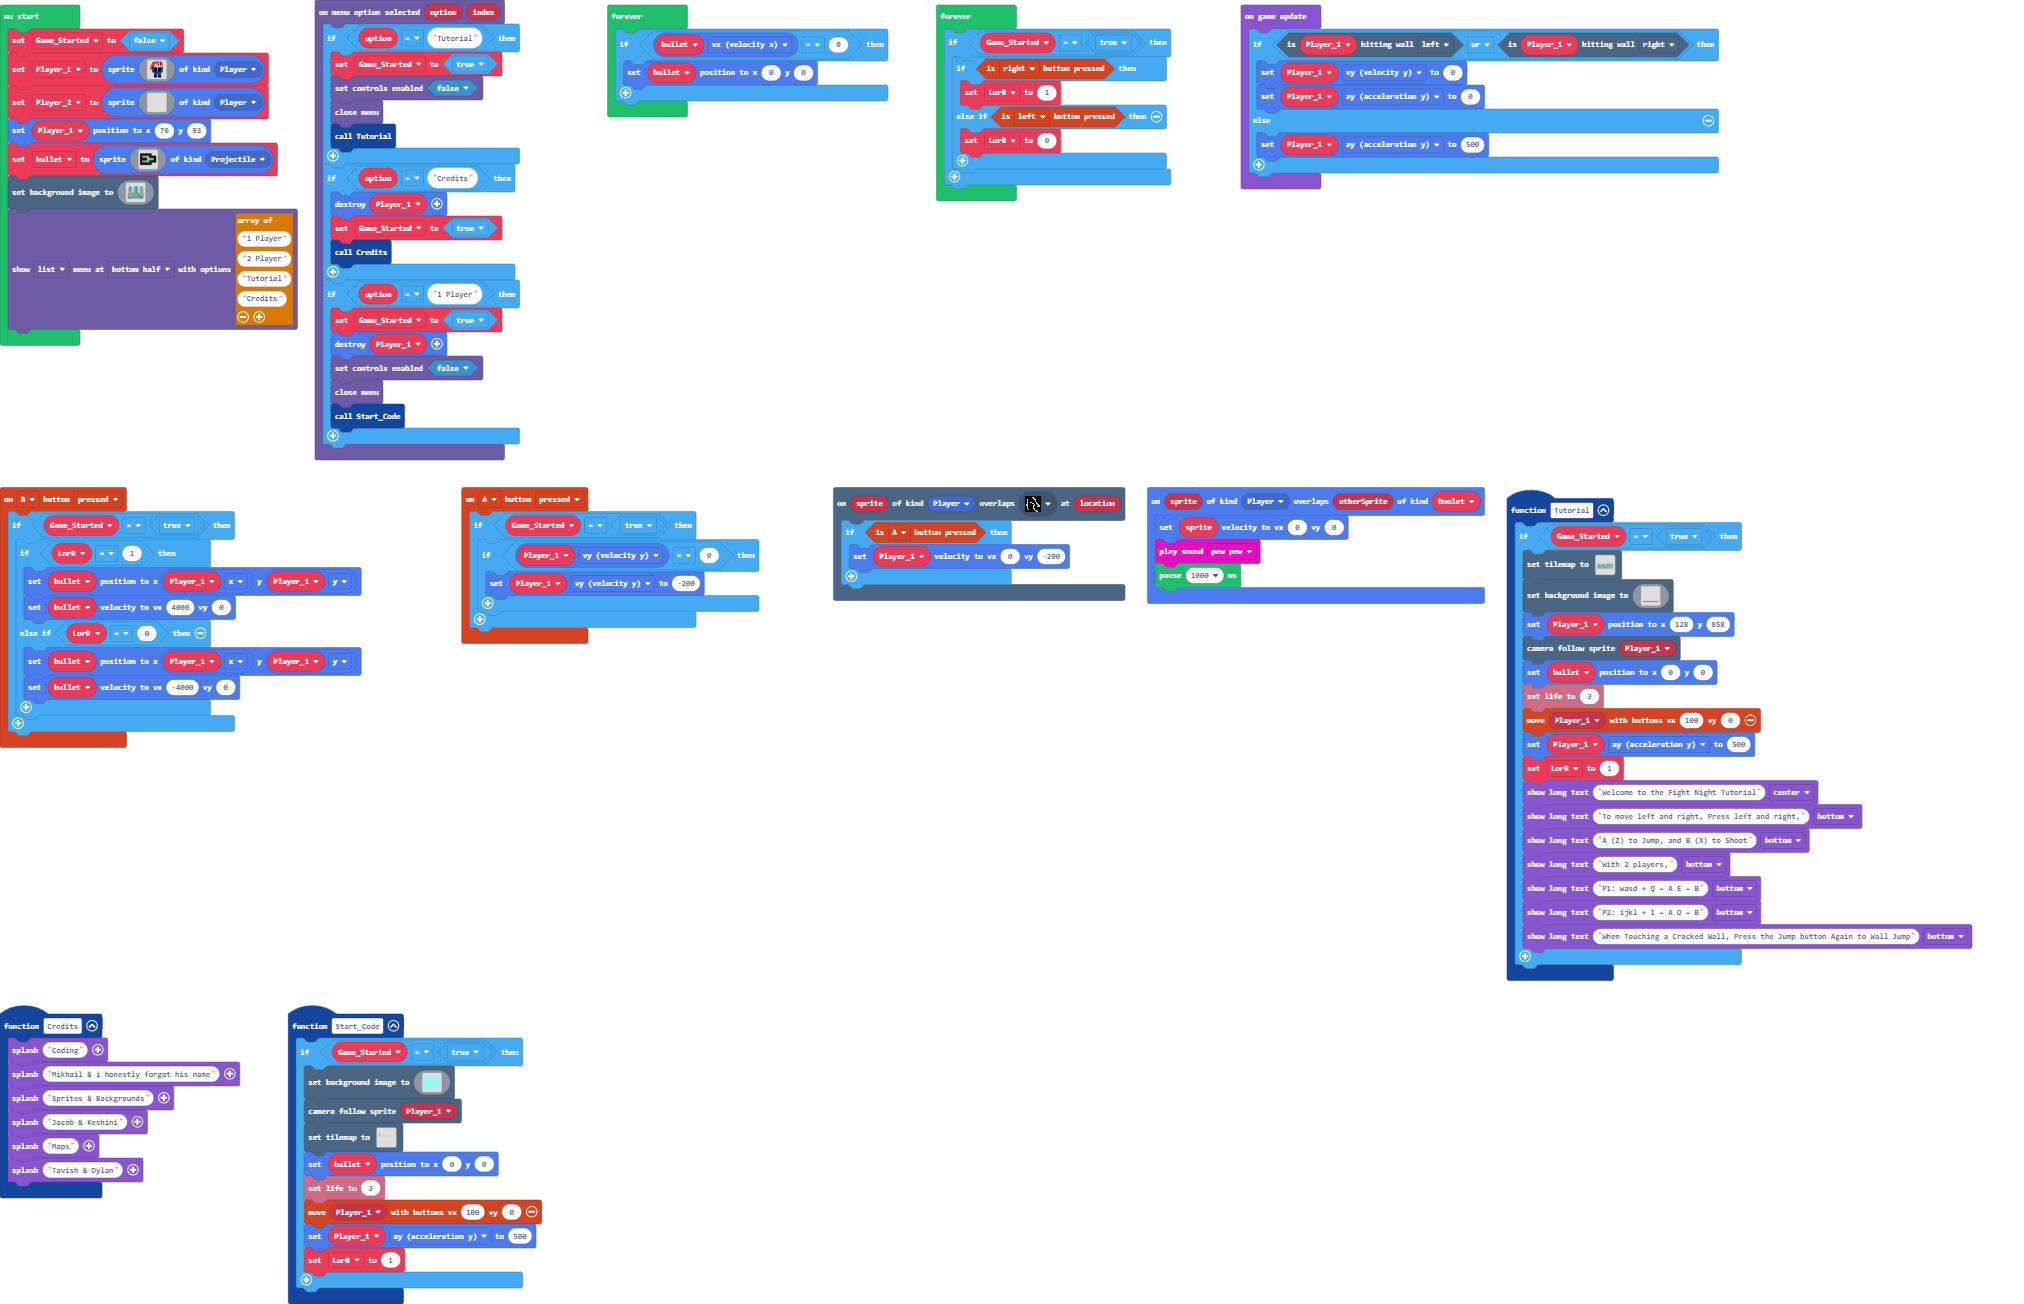
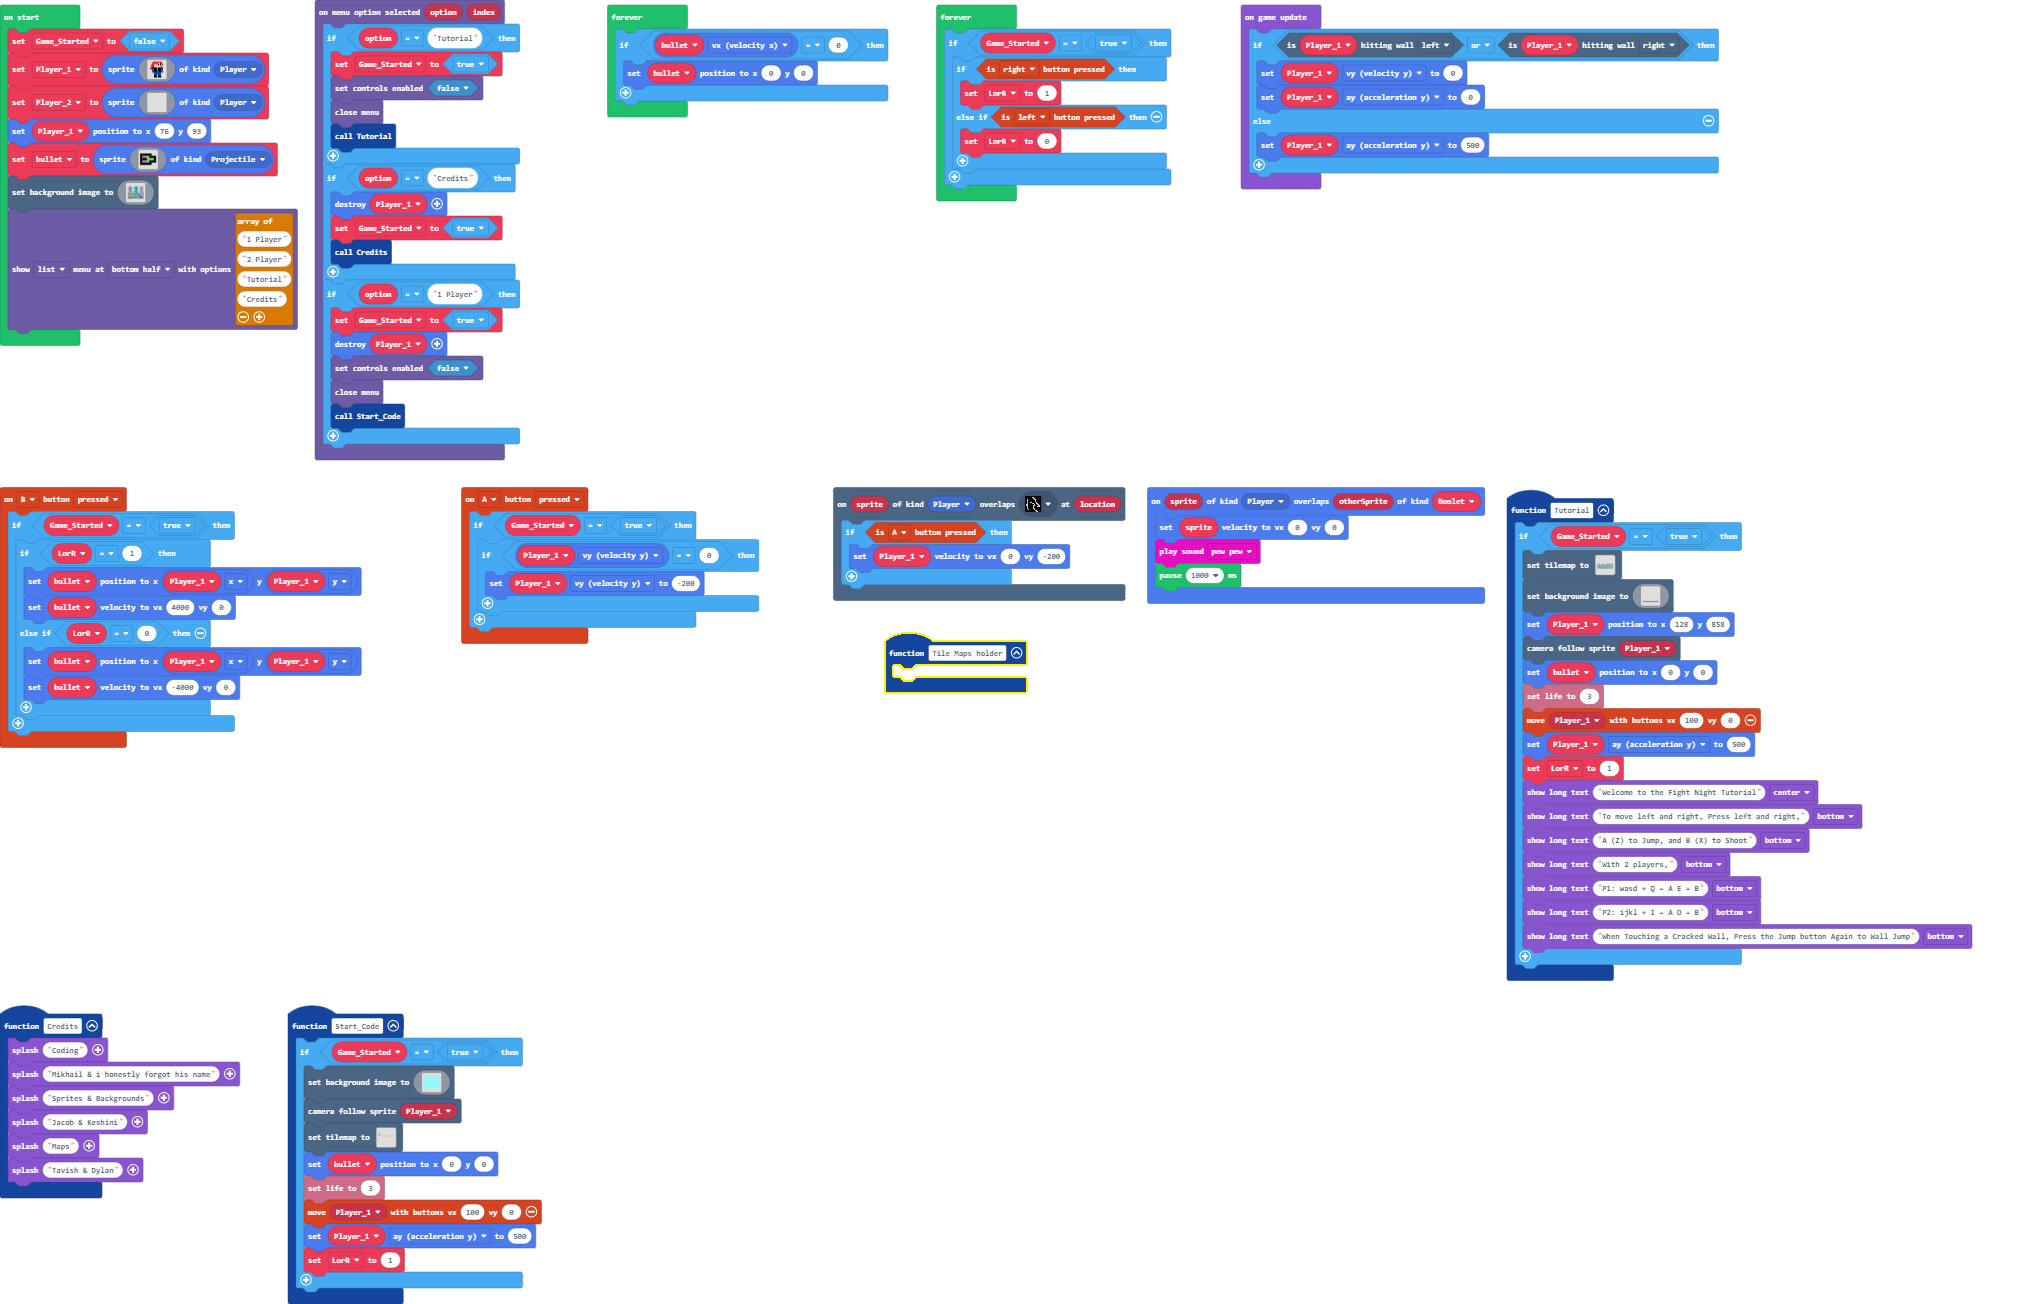
Update main.blocks, main.ts

diff --git a/main.ts b/main.ts
@@ -163,6 +163,9 @@ function Tutorial () {
         game.showLongText("When Touching a Cracked Wall, Press the Jump button Again to Wall Jump", DialogLayout.Bottom)
     }
 }
+function Tile_Maps_holder () {
+	
+}
 function Credits () {
     game.splash("Coding")
     game.splash("Mikhail & i honestly forgot his name")
